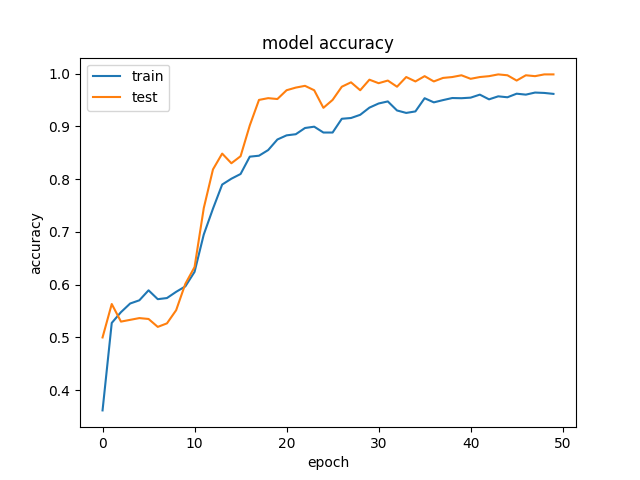
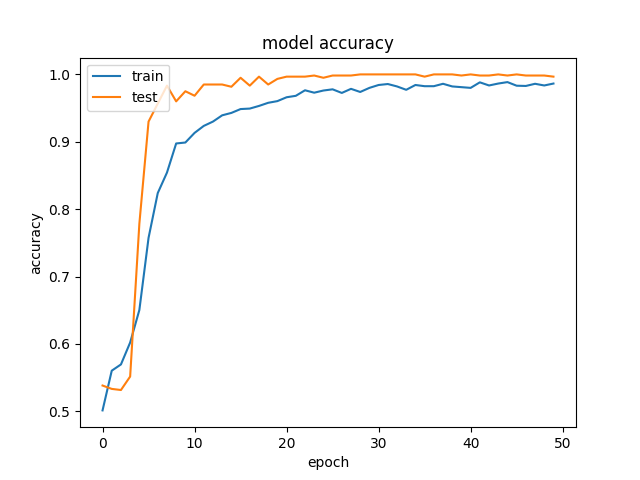
using sigmoid activation

diff --git a/project-3/blstm.py b/project-3/blstm.py
@@ -164,7 +164,7 @@ bi = Bidirectional(
         recurrent_regularizer='l2'), name="BLSTM_layer")(inp_drop)
 
 flat = Flatten()(bi)
-out = Dense(1)(flat)
+out = Dense(1, activation='sigmoid')(flat)
 
 
 
